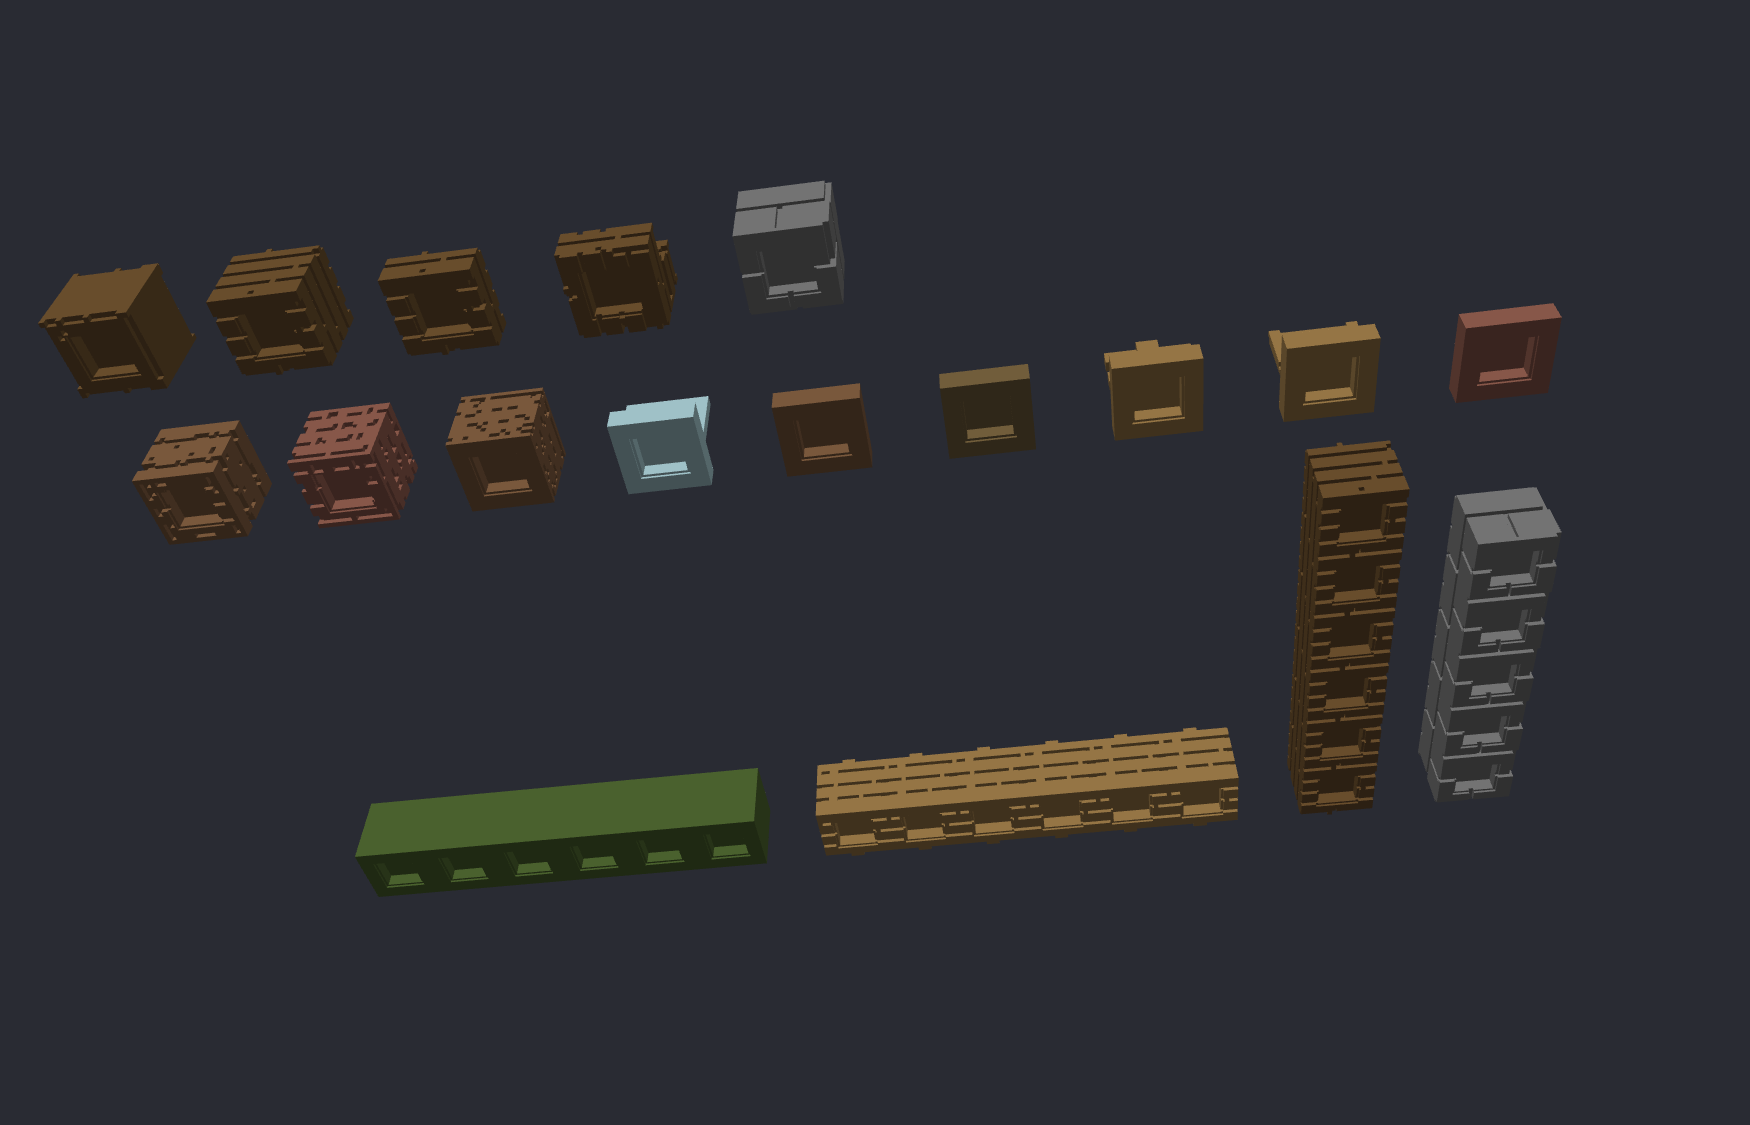
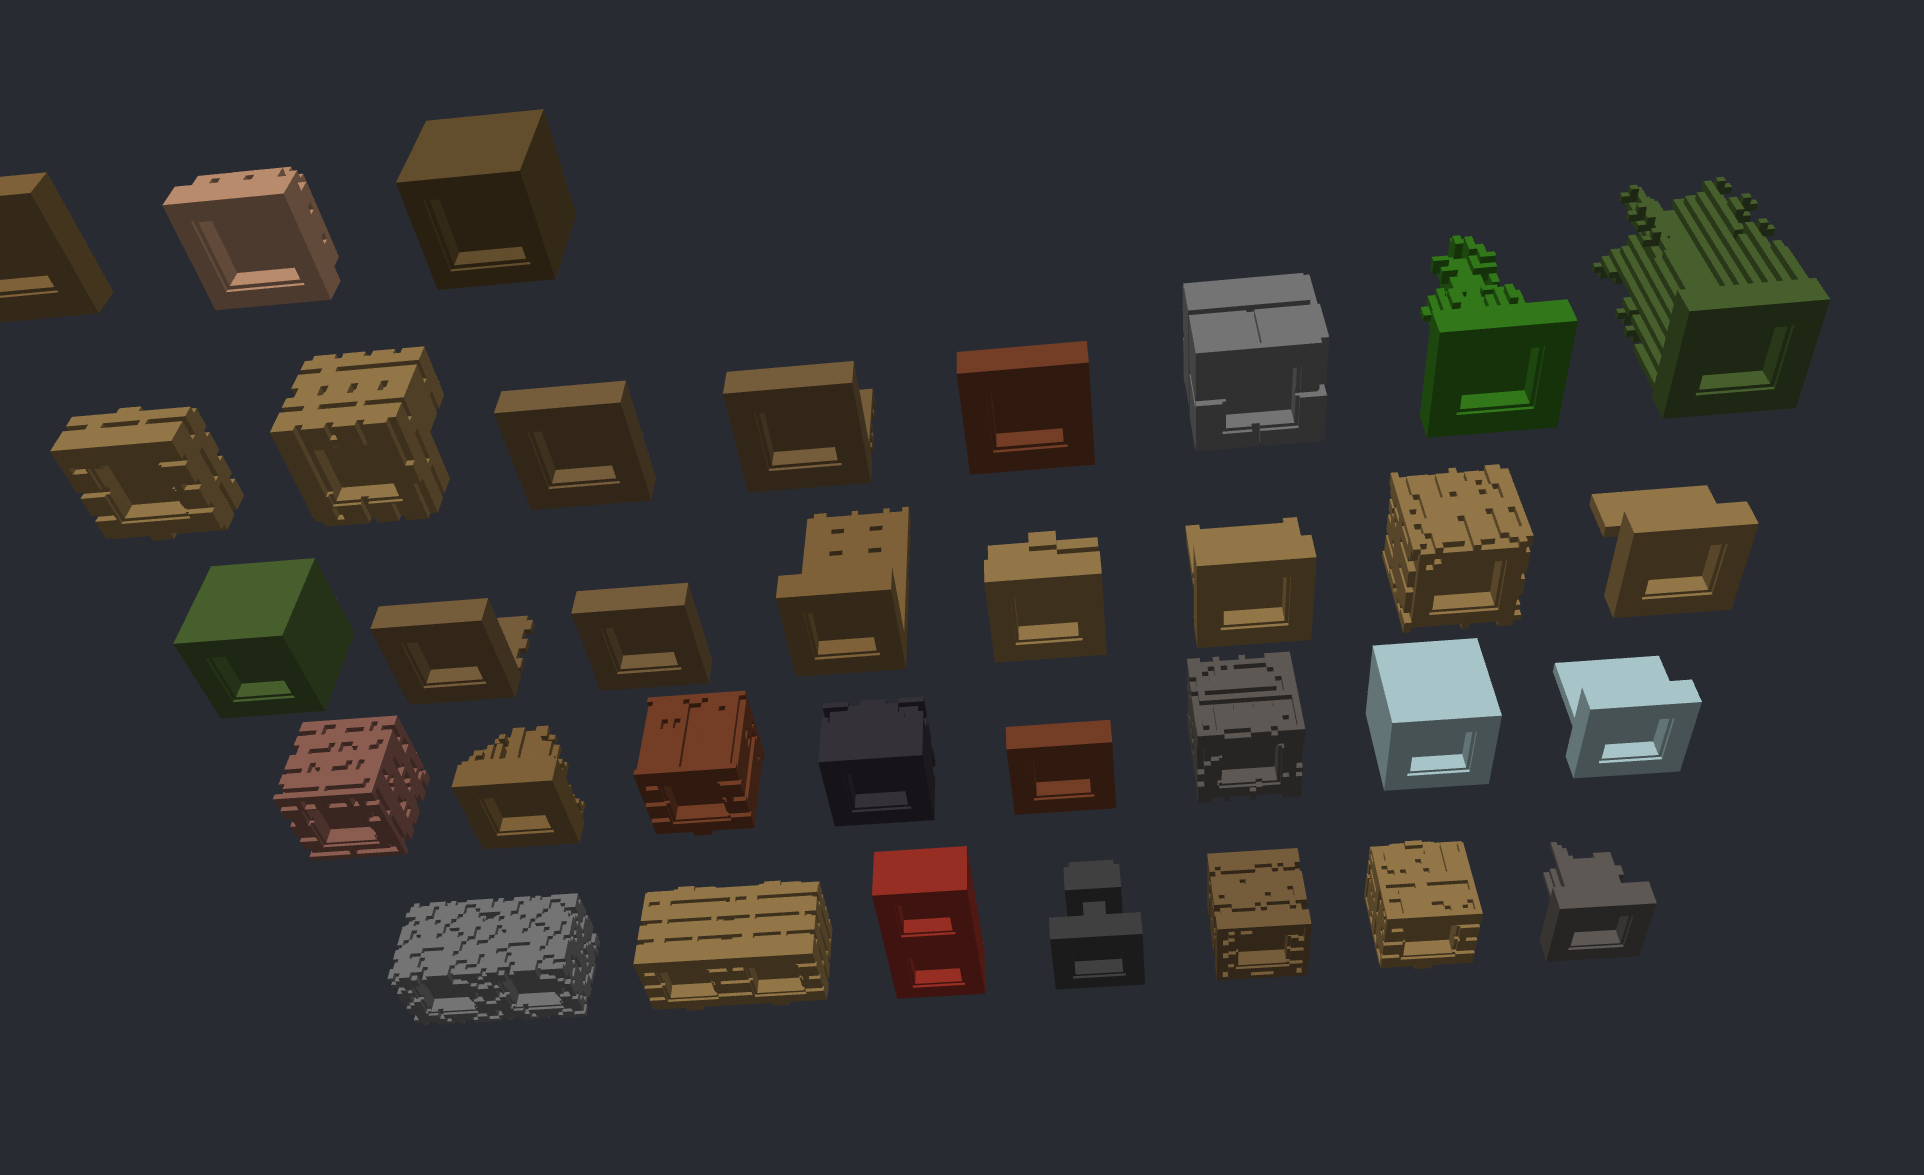
kit: paired pieces (door/plant halves stacked, bed foot+head merged); parts sheet with workbench, doors, trapdoors, torches, ladders and more

diff --git a/mcprint/kit/pieces.py b/mcprint/kit/pieces.py
@@ -69,7 +69,7 @@ class PieceType:
     block_index: int
     state: BlockState
     length: int                      # units along its axis
-    axis: str                        # 'x' | 'z' (Minecraft axes)
+    axis: str                        # 'x' | 'z' (Minecraft axes) | 'y' (stacked: door halves, tall plants)
     cube: bool                       # full cube body
     material: int                    # print material id (from the color plan)
     rgb: tuple[int, int, int]
@@ -78,14 +78,23 @@ class PieceType:
     base_tile: bool = False
     count: int = 0
     mesh: Optional[MeshSet] = None
+    block_indices: tuple = ()        # one palette index per unit (paired blocks: door lower+upper, bed foot+head)
 
     @property
     def footprint_mm(self) -> tuple[float, float]:
         return (0.0, 0.0)  # filled by build_piece_mesh
 
     @property
+    def units_y(self) -> int:
+        return self.length if self.axis == "y" else 1
+
+    @property
     def label(self) -> str:
         n = self.state.path
+        if self.axis == "y" and self.length > 1:
+            return f"{n} (both halves)"
+        if self.length > 1 and self.block_indices and len(set(self.block_indices)) > 1:
+            return f"{n} {self.length}x1 (paired)"
         return f"{n} {self.length}x1" if self.length > 1 else n
 
 
@@ -95,6 +104,10 @@ class Placement:
     x: int
     y: int
     z: int                           # Minecraft block coords of the run's first cell
+
+    @property
+    def units_y(self) -> int:
+        return self.piece.units_y
 
 
 @dataclass
@@ -158,20 +171,63 @@ def extract_pieces(model: VoxelModel, plan: ColorPlan, settings: KitSettings) ->
     used = np.zeros_like(blocks, dtype=bool)
     counter = [0]
 
-    def piece_for(idx: int, length: int, axis: str) -> PieceType:
+    def piece_for(idx: int, length: int, axis: str, indices: tuple = ()) -> PieceType:
         cube = bool(is_full[idx])
-        axis_key = axis if (length > 1 and (settings.textured or not cube)) else "-"
-        key = (idx, length, axis_key)
+        indices = tuple(indices) if indices else (idx,) * length
+        axis_key = axis if (length > 1 and (settings.textured or not cube or len(set(indices)) > 1)) else "-"
+        key = (indices, axis_key)
         pt = types.get(key)
         if pt is None:
             counter[0] += 1
             mat, rgb = material_of(idx)
-            stud, socket, base = _connector_flags(model.patterns[idx], settings, cube)
+            if axis == "y":
+                # stacked halves: socket/base from the bottom pattern, stud from the top pattern
+                stud_top, _s, _b = _connector_flags(model.patterns[indices[-1]], settings, bool(is_full[indices[-1]]))
+                _s2, socket, base = _connector_flags(model.patterns[indices[0]], settings, cube)
+                stud = stud_top and bool(is_full[indices[-1]])
+            else:
+                stud, socket, base = _connector_flags(model.patterns[idx], settings, cube)
+                if len(set(indices)) > 1:
+                    stud = all(_connector_flags(model.patterns[i], settings, bool(is_full[i]))[0] for i in indices)
+                    base = any(_connector_flags(model.patterns[i], settings, bool(is_full[i]))[2] for i in indices)
             pt = PieceType(id=f"P{counter[0]:03d}", key=key, block_index=idx, state=model.palette[idx], length=length,
-                           axis=axis, cube=cube, material=mat, rgb=rgb, has_stud=stud, has_socket=socket, base_tile=base)
+                           axis=axis, cube=cube, material=mat, rgb=rgb, has_stud=stud, has_socket=socket, base_tile=base,
+                           block_indices=indices)
             types[key] = pt
         pt.count += 1
         return pt
+
+    # --- paired blocks: door/plant halves stacked vertically, bed foot+head side by side --------
+    consumed = np.zeros_like(blocks, dtype=bool)
+    starts: dict[tuple[int, int, int], tuple[int, str, tuple]] = {}   # (y,z,x) -> (length, axis, indices)
+    _FACING = {"north": (0, -1), "south": (0, 1), "west": (-1, 0), "east": (1, 0)}
+    for y in range(Y):
+        for z in range(Z):
+            for x in range(X):
+                idx = int(blocks[y, z, x])
+                if idx == 0 or is_full[idx] or consumed[y, z, x]:
+                    continue
+                st = model.palette[idx]
+                props = st.properties
+                if props.get("half") == "lower" and y + 1 < Y:
+                    up = int(blocks[y + 1, z, x])
+                    if up and model.palette[up].name == st.name and model.palette[up].properties.get("half") == "upper" and not consumed[y + 1, z, x]:
+                        starts[(y, z, x)] = (2, "y", (idx, up))
+                        consumed[y + 1, z, x] = True
+                        consumed[y, z, x] = True
+                        continue
+                if props.get("part") == "foot" and props.get("facing") in _FACING:
+                    dx, dz = _FACING[props["facing"]]
+                    hx, hz = x + dx, z + dz
+                    if 0 <= hx < X and 0 <= hz < Z:
+                        head = int(blocks[y, hz, hx])
+                        if head and model.palette[head].name == st.name and model.palette[head].properties.get("part") == "head" and not consumed[y, hz, hx]:
+                            axis = "x" if dx else "z"
+                            first = (y, z, min(x, hx)) if axis == "x" else (y, min(z, hz), x)
+                            order = (idx, head) if (dx > 0 or dz > 0) else (head, idx)
+                            starts[first] = (2, axis, order)
+                            consumed[y, z, x] = True
+                            consumed[y, hz, hx] = True
 
     for y in range(Y):
         axis = "x" if (y % 2 == 0 or not settings.alternate_layers) else "z"
@@ -180,7 +236,12 @@ def extract_pieces(model: VoxelModel, plan: ColorPlan, settings: KitSettings) ->
                 x = 0
                 while x < X:
                     idx = int(blocks[y, z, x])
-                    if idx == 0 or not nonempty[idx] or (settings.skip_non_cube and not is_full[idx]):
+                    if (y, z, x) in starts:
+                        ln, ax, ind = starts[(y, z, x)]
+                        kit.placements.append(Placement(piece_for(ind[0], ln, ax, ind), x, y, z))
+                        x += ln if ax == "x" else 1
+                        continue
+                    if idx == 0 or not nonempty[idx] or consumed[y, z, x] or (settings.skip_non_cube and not is_full[idx]):
                         x += 1
                         continue
                     length = 1
@@ -194,7 +255,12 @@ def extract_pieces(model: VoxelModel, plan: ColorPlan, settings: KitSettings) ->
                 z = 0
                 while z < Z:
                     idx = int(blocks[y, z, x])
-                    if idx == 0 or not nonempty[idx] or (settings.skip_non_cube and not is_full[idx]):
+                    if (y, z, x) in starts:
+                        ln, ax, ind = starts[(y, z, x)]
+                        kit.placements.append(Placement(piece_for(ind[0], ln, ax, ind), x, y, z))
+                        z += ln if ax == "z" else 1
+                        continue
+                    if idx == 0 or not nonempty[idx] or consumed[y, z, x] or (settings.skip_non_cube and not is_full[idx]):
                         z += 1
                         continue
                     length = 1
@@ -266,6 +332,8 @@ def _cut_socket(bm: BoxModel, cx: float, cy: float, z0: float, s: KitSettings) -
 
 def piece_extent(piece: PieceType, s: KitSettings) -> tuple[float, float]:
     U = s.unit_mm
+    if piece.axis == "y":
+        return (U, U)
     return (piece.length * U, U) if piece.axis == "x" else (U, piece.length * U)
 
 
@@ -274,32 +342,45 @@ def build_piece_mesh(piece: PieceType, model: VoxelModel, s: KitSettings) -> Mes
     w, d = piece_extent(piece, s)
     bm = BoxModel()
     mat = max(1, piece.material)
-    if piece.cube and not s.textured:
+    indices = piece.block_indices or (piece.block_index,) * piece.length
+    top_z = U * (piece.length if piece.axis == "y" else 1)
+    if piece.cube and not s.textured and len(set(indices)) == 1:
         bm.add((0, 0, 0), (w, d, U), mat)
     else:
-        pat = model.patterns[piece.block_index]
-        occ_mc = pat.colors != 0
-        if s.textured and model.relief_steps and pat.relief is not None:
-            steps = int(model.relief_steps)
-            pad = steps + 1
-            colors = np.pad(pat.colors, pad)
-            rel = np.pad(pat.relief, pad)
-            carve_relief(colors, rel, steps)
-            occ_mc = colors[pad:-pad, pad:-pad, pad:-pad] != 0
-        occ_print = occ_mc[:, ::-1, :]            # [Z, Y, X]
-        reps = piece.length
-        tiled = np.concatenate([occ_print] * reps, axis=2) if piece.axis == "x" else np.concatenate([occ_print] * reps, axis=1)
-        n = occ_mc.shape[0]
+        def occ_of(idx: int) -> np.ndarray:
+            pat = model.patterns[idx]
+            occ_mc = pat.colors != 0
+            if s.textured and model.relief_steps and pat.relief is not None:
+                steps = int(model.relief_steps)
+                pad = steps + 1
+                colors = np.pad(pat.colors, pad)
+                rel = np.pad(pat.relief, pad)
+                carve_relief(colors, rel, steps)
+                occ_mc = colors[pad:-pad, pad:-pad, pad:-pad] != 0
+            return occ_mc[:, ::-1, :]              # [Z, Y, X] print axes
+        bodies = [occ_of(i) for i in indices]
+        if piece.axis == "y":
+            tiled = np.concatenate(bodies, axis=0)                       # stacked upwards
+        elif piece.axis == "x":
+            tiled = np.concatenate(bodies, axis=2)                       # unit j at higher X
+        else:
+            tiled = np.concatenate(bodies[::-1], axis=1)                 # unit j at higher Minecraft z = lower print Y
+        n = bodies[0].shape[2]
         bm.add_body(VoxelBody(tiled, None, (0.0, 0.0, 0.0), U / n, mat))
         if piece.base_tile:
             bm.add((0, 0, 0), (w, d, s.base_tile_mm), mat)
-    centres = [((i + 0.5) * U, U / 2) for i in range(piece.length)] if piece.axis == "x" else [(U / 2, (i + 0.5) * U) for i in range(piece.length)]
+    if piece.axis == "y":
+        centres = [(U / 2, U / 2)]
+    elif piece.axis == "x":
+        centres = [((i + 0.5) * U, U / 2) for i in range(piece.length)]
+    else:
+        centres = [(U / 2, (i + 0.5) * U) for i in range(piece.length)]
     if piece.has_socket:
         for cx, cy in centres:
             _cut_socket(bm, cx, cy, 0.0, s)
     if piece.has_stud:
         for cx, cy in centres:
-            _add_stud(bm, cx, cy, U, s, mat)
+            _add_stud(bm, cx, cy, top_z, s, mat)
     info = {mat: {"name": f"{piece.id} {piece.label}", "color": tuple(int(v) for v in piece.rgb)}}
     return bm.mesh(material_info=info, single_material=mat)
 

diff --git a/tests/test_kit.py b/tests/test_kit.py
@@ -84,6 +84,47 @@ def test_extract_and_connectors():
     assert check_watertight(fm)[0] and fm.signed_volume() > s.base_tile_mm * 100 * 0.5
 
 
+def test_paired_pieces_door_and_bed():
+    """Door halves stack into one 2-unit-tall piece; bed foot+head merge into one 2-long piece."""
+    n = 8
+    ci = ColorIndex()
+    wood = ci.index_of_color((150, 110, 60))
+    red = ci.index_of_color((180, 40, 40))
+    door = np.zeros((n, n, n), dtype=np.uint16); door[:, 6:8, :] = wood          # thin panel on the south side
+    door_up = door.copy()
+    bed = np.zeros((n, n, n), dtype=np.uint16); bed[1:4, :, :] = red; bed[0, :2, :2] = red   # mattress + one leg
+    bed_head = bed.copy()
+    pats = [BlockPattern(np.zeros((n, n, n), dtype=np.uint16), kind="empty"), _pattern(door, idx=wood), _pattern(door_up, idx=wood),
+            _pattern(bed, idx=red), _pattern(bed_head, idx=red)]
+    blocks = np.zeros((2, 3, 3), dtype=np.int32)      # [y, z, x]
+    blocks[0, 0, 0] = 1; blocks[1, 0, 0] = 2           # door lower at y=0, upper at y=1
+    blocks[0, 1, 2] = 3; blocks[0, 2, 2] = 4           # bed foot at z=1 facing south -> head at z=2
+    palette = [AIR,
+               BlockState.parse("minecraft:oak_door[facing=south,half=lower,hinge=left,open=false]"),
+               BlockState.parse("minecraft:oak_door[facing=south,half=upper,hinge=left,open=false]"),
+               BlockState.parse("minecraft:red_bed[facing=south,part=foot]"),
+               BlockState.parse("minecraft:red_bed[facing=south,part=head]")]
+    m = VoxelModel(blocks=blocks, palette=palette, patterns=pats, resolution=n, colors=ci)
+    plan = plan_clusters(m.color_histogram(), ci.palette(), 2)
+    s = KitSettings(unit_mm=10.0, baseplate=False)
+    kit = extract_pieces(m, plan, s)
+    assert kit.total_pieces == 2
+    door_p = next(p for p in kit.pieces if "door" in p.state.path)
+    bed_p = next(p for p in kit.pieces if "bed" in p.state.path)
+    assert door_p.axis == "y" and door_p.length == 2 and door_p.block_indices == (1, 2)
+    assert bed_p.axis == "z" and bed_p.length == 2 and bed_p.block_indices == (3, 4)
+    assert door_p.base_tile and door_p.has_socket and not door_p.has_stud
+    dm = build_piece_mesh(door_p, m, s).meshes[0]
+    assert check_watertight(dm)[0]
+    lo, hi = dm.bounds()
+    assert np.allclose(hi[2], 20.0) and np.allclose(hi[:2], [10, 10])       # two units tall, one footprint
+    bm = build_piece_mesh(bed_p, m, s).meshes[0]
+    assert check_watertight(bm)[0]
+    lo, hi = bm.bounds()
+    assert np.allclose(hi[:2], [10, 20])                                    # one unit along X, two along print Y
+    assert [pl.units_y for pl in kit.placements if pl.piece is door_p] == [2]
+
+
 def test_alternating_layers_and_plates(tmp_path):
     m, plan = _model()
     m.blocks[1, :, :] = 1                              # second layer solid stone too

diff --git a/mcprint/kit/guide.py b/mcprint/kit/guide.py
@@ -70,12 +70,24 @@ svg{{background:#fff;border:1px solid #bbb}} .note{{color:#555;font-size:13px}}
     # layer maps
     parts.append("<h2>Layer maps</h2><p class='note'>Top view. X runs left to right, Z (Minecraft south) runs top to bottom, exactly like the schematic seen from above. Layer 1 sits on the baseplate.</p>")
     layers = kit.layers()
-    for y in sorted(layers):
+    ghosts: dict[int, list] = {}
+    for pl in kit.placements:
+        for k in range(1, pl.units_y):
+            ghosts.setdefault(pl.y + k, []).append(pl)
+    all_layers = sorted(set(layers) | set(ghosts))
+    for y in all_layers:
         parts.append(f"<div class='layer'><h3>Layer {y + 1}</h3>")
         parts.append(f"<svg width='{X * cell + 1}' height='{Z * cell + 1}' viewBox='0 0 {X * cell + 1} {Z * cell + 1}'>")
-        for pl in layers[y]:
+        for pl in ghosts.get(y, []):
+            x0, y0 = pl.x * cell, pl.z * cell
+            parts.append(f"<rect x='{x0 + 0.5}' y='{y0 + 0.5}' width='{cell}' height='{cell}' fill='{to_hex(pl.piece.rgb)}' fill-opacity='0.35' stroke='#333' stroke-dasharray='3,2'/>")
+            if cell >= 14:
+                parts.append(f"<text x='{x0 + cell / 2}' y='{y0 + cell / 2 + 4}' font-size='{max(7, cell * 0.38):.0f}' text-anchor='middle' fill='#333'>↑{pl.piece.id[1:].lstrip('0')}</text>")
+        for pl in layers.get(y, []):
             p = pl.piece
             w_units, d_units = (p.length, 1) if p.axis == "x" else (1, p.length)
+            if p.axis == "y":
+                w_units, d_units = 1, 1
             x0, y0 = pl.x * cell, pl.z * cell
             w, h = w_units * cell, d_units * cell
             col = to_hex(p.rgb)
@@ -92,7 +104,8 @@ svg{{background:#fff;border:1px solid #bbb}} .note{{color:#555;font-size:13px}}
         for j in range(Z + 1):
             parts.append(f"<line x1='0' y1='{j * cell + 0.5}' x2='{X * cell}' y2='{j * cell + 0.5}' stroke='#e2e2e2' stroke-width='0.5'/>")
         parts.append("</svg></div>")
-    parts.append("<p class='note'>Numbers are piece ids without the leading P; dashed outlines mark detailed (non-cube) pieces whose orientation follows the block's facing in the schematic.</p>")
+    parts.append("<p class='note'>Numbers are piece ids without the leading P; dashed outlines mark detailed (non-cube) pieces whose orientation follows the block's facing in the schematic. "
+                 "A faded cell with ↑ belongs to a two-block-tall piece (door, tall plant) placed on the layer below.</p>")
     parts.append("</body></html>")
     path.write_text("\n".join(parts), encoding="utf-8")
     return path

diff --git a/README.md b/README.md
@@ -97,9 +97,12 @@ Plus a database of 140+ printers with bed sizes and slot counts, and detection o
 |---|---|
 | ![Kit pieces](docs/kit-pieces.png) | ![Kit pieces, underside](docs/kit-pieces-bottom.png) |
 
+*Workbench, furnace, bookshelf, chest, closed and open trapdoor, torch, ladder, lantern, sign, glass, stairs, slab, fence, gate, pane, anvil, cake, campfire, barrel, stone bricks, bricks, log, grass, poppy, enchanting table, flower pot, brewing stand, door, sunflower, bed, tall grass, and 2×1 bars, each with its stud and socket.*
+
 - One block = one unit (the block size). Studs are square, half a unit wide with a stepped chamfer; sockets have a configurable clearance (0.15 mm per side by default) and an entry chamfer.
 - Runs of identical full-cube blocks merge into bars up to N units long, alternating direction every layer so walls interlock like brickwork.
-- Stairs, slabs, fences, doors, flowers keep their geometry; thin pieces get a socketed base tile.
+- Stairs, slabs, fences, trapdoors, torches, ladders, flowers keep their geometry; thin pieces get a socketed base tile.
+- Two-block objects become one piece: door halves and tall plants stack into a 2-unit-tall piece, a bed's foot and head merge into a 2-unit-long piece. The guide marks the cell above a tall piece so nothing else is placed there.
 - Output folder: `pieces/` (one STL per piece type, quantity in the file name), `plates/` (3MF plates with every copy arranged on your bed, one filament per plate), studded baseplate tiles, `parts.csv`, and `assembly_guide.html` with a colored top-down map for every layer.
 
 ```bash
